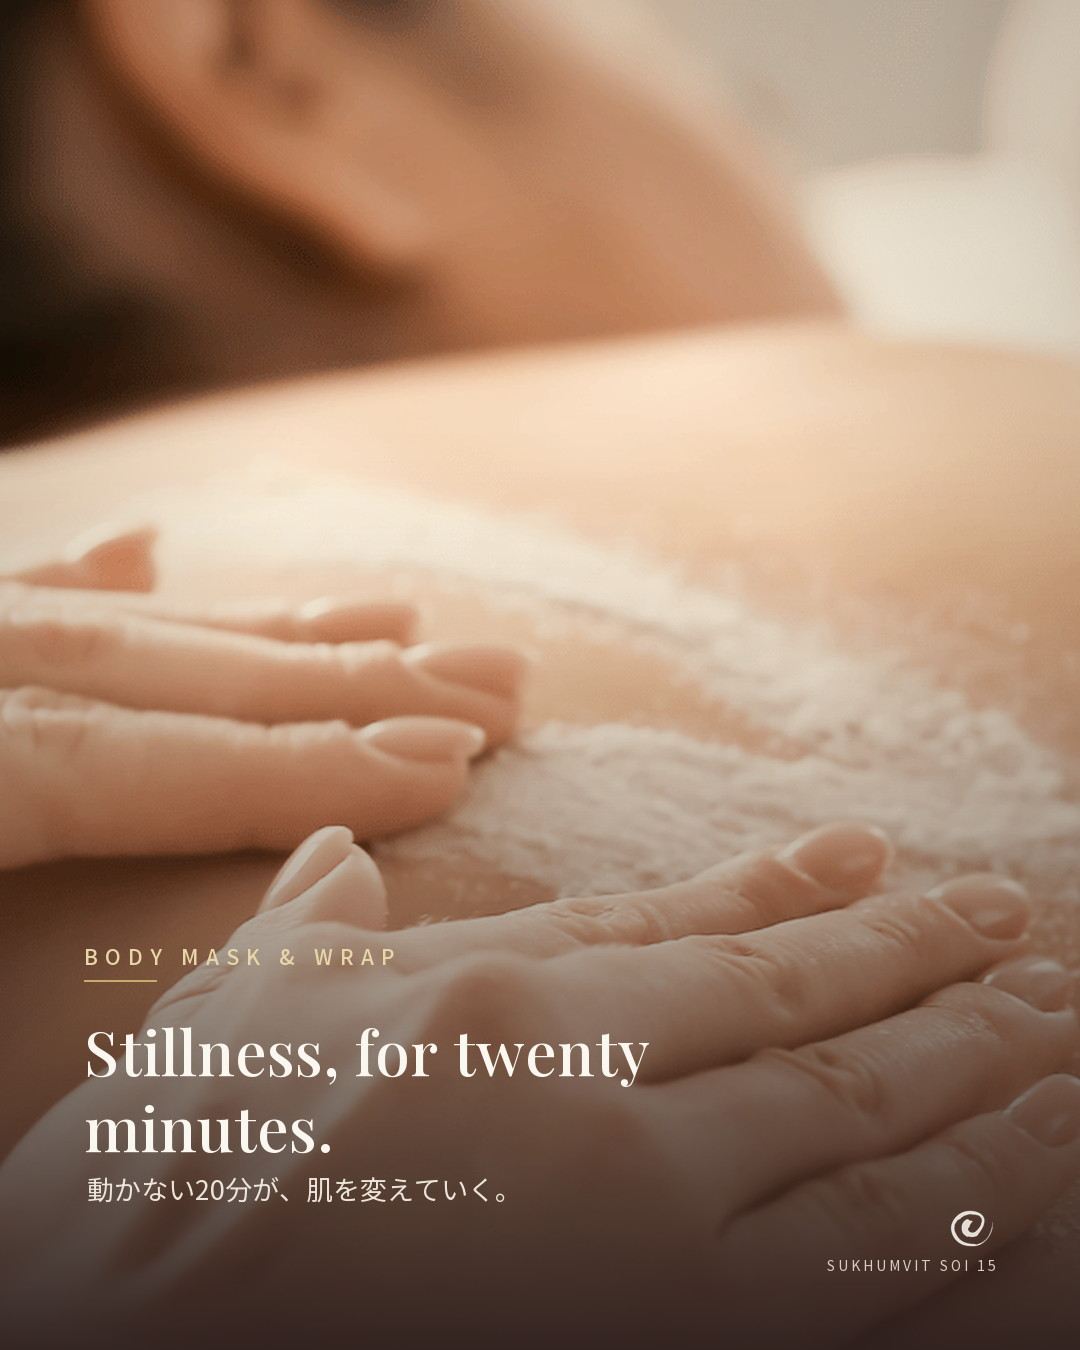
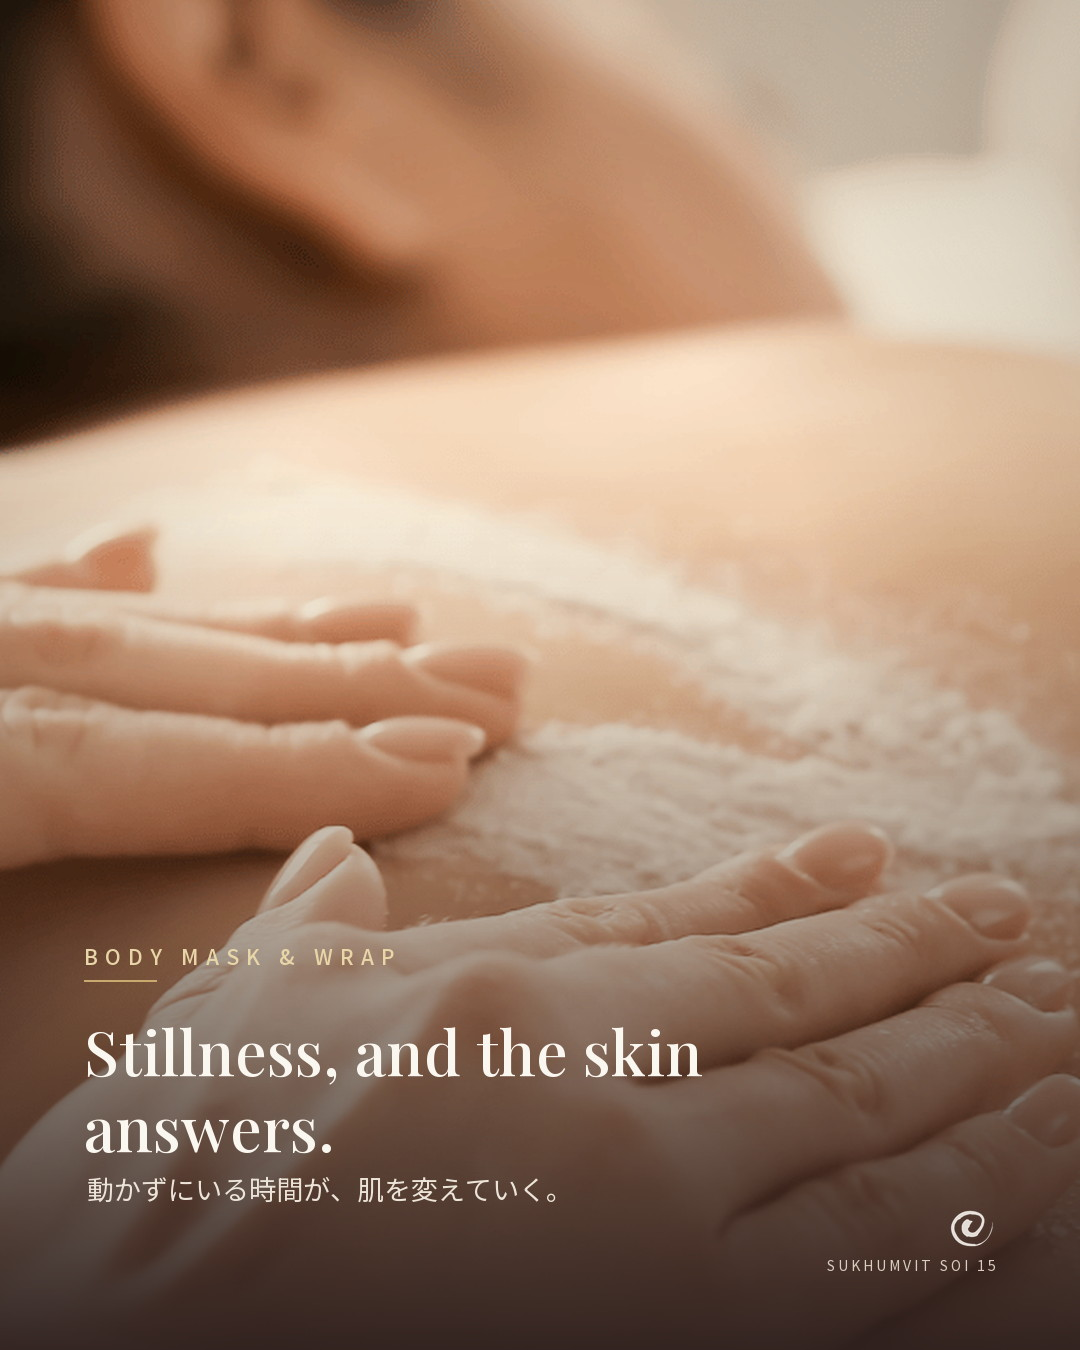
fix(frames): 見出しから所要時間の主張を外し、機械的に弾くようにする
画を選ぶ側（coran-social の selectFrame）はメニューの分数を見ない。見出しに
分数が焼かれていると、60分のメニューに「ninety minutes」の画が当たって
事実と違う投稿になる。実在した2件を直した:

  body-mask       "Stillness, for twenty minutes." / 「動かない20分が、…」
  office-syndrome "Desk all day, undone in ninety minutes."

brandimage.py の CATEGORY は元々「事実の主張は書かない」と自分で書いてあり、
この2件はその決まりから漏れていた。再発しないよう build_social_frames.py に
見出し検査（所要時間・価格・割引／en と ja の両方）を入れ、違反があれば
在庫を作らずに exit 1 する。award の受賞名だけ例外。

実測: 違反ありで exit=1・違反なしで exit=0、目録110件の見出しに違反0。
作り直した画は該当2枚だけ（生成は再現する）。

Changed region(s): [[0.0917, 0.8089, 0.4889, 0.9022], [0.3361, 0.7467, 0.6417, 0.8089]]

diff --git a/tools/build_social_frames.py b/tools/build_social_frames.py
@@ -24,6 +24,7 @@
 import argparse
 import json
 import os
+import re
 import sys
 
 ROOT = os.path.dirname(os.path.dirname(os.path.abspath(__file__)))
@@ -70,6 +71,33 @@ CATEGORY_MAP = {
 }
 SKIP_DIRS = {"generated", "social"}
 
+# 見出しに焼いてはいけない主張。
+#   ・所要時間: 画を選ぶ側（coran-social の selectFrame）はメニューの分数を見ないので、
+#     60分のメニューに「ninety minutes」の画が当たると事実と違う投稿になる。
+#   ・価格/割引: 本文と同じく画にも焼かない（価格の正は予約バックエンドとサイト）。
+#   例外は award カテゴリの受賞名（実際の受賞・受賞写真にしか使われない）。
+FORBIDDEN_HEADLINE = [
+    (re.compile(r"\b(twenty|thirty|forty|fifty|sixty|seventy|eighty|ninety|hundred)\s+minutes?\b", re.I), "所要時間"),
+    (re.compile(r"\b\d+\s*(minutes?|mins?|hours?|hrs?)\b", re.I), "所要時間"),
+    (re.compile(r"\d+\s*(分|時間)"), "所要時間"),
+    (re.compile(r"(฿|THB|バーツ|baht|泰铢|泰銖|바트)", re.I), "価格"),
+    (re.compile(r"(\d+\s*%|OFF\b|割引|discount|sale)", re.I), "割引"),
+]
+HEADLINE_GUARD_EXEMPT = {"award"}
+
+
+def check_headlines(cat, en, ja):
+    """見出しに禁止事項が入っていないか調べ、理由のリストを返す。"""
+    if cat in HEADLINE_GUARD_EXEMPT:
+        return []
+    hits = []
+    for text in (en, ja):
+        for pat, why in FORBIDDEN_HEADLINE:
+            m = pat.search(text or "")
+            if m:
+                hits.append(f'{why}（"{m.group(0)}" in "{text}"）')
+    return hits
+
 
 def frame_id(rel_file):
     """images/manifest.json の "<カテゴリ>/<ファイル名>" から安定した id を作る。"""
@@ -84,6 +112,7 @@ def main():
     args = ap.parse_args()
 
     photos = json.load(open(config.MANIFEST_PATH, encoding="utf-8"))
+    bad_headlines = []
     # 既存の目録があれば、作り直さない画の layout はそこから引く
     # （素材が小さいと A→C に落ちるので、既定値を書くと実物とズレた目録になる）。
     prev_layout = {}
@@ -110,6 +139,8 @@ def main():
         out_path = os.path.join(OUT_DIR, out_rel)
 
         eyebrow, layout_default, en, ja = brandimage.meta_for(photo)
+        for why in check_headlines(cat, en, ja):
+            bad_headlines.append((rel, why))
 
         if os.path.exists(out_path) and not args.force and prev_layout.get(fid):
             layout = prev_layout[fid]
@@ -158,6 +189,12 @@ def main():
     print(f"レイアウト内訳: {by_layout}")
     if skipped:
         print(f"対象外 {len(skipped)}件: " + ", ".join(f"{r}({w})" for r, w in skipped[:5]))
+    if bad_headlines:
+        print(f"\n見出しに書いてはいけない主張が {len(bad_headlines)} 件:")
+        for r, w in bad_headlines:
+            print(f"  {r}: {w}")
+        print("src/brandimage.py の CATEGORY を直してから作り直してください。")
+        return 1
     if failed:
         print(f"失敗 {len(failed)}件:")
         for r, w in failed:

diff --git a/src/brandimage.py b/src/brandimage.py
@@ -18,7 +18,11 @@ import config
 # カテゴリ → (小見出し, 既定レイアウト, [(英語の一行, 和文の一行), ...])
 #   一行は Claude が使えないときのフォールバック。APIが続けて失敗しても同じ文が並ばないよう
 #   カテゴリごとに複数持ち、素材のファイル名から決まる（同じ写真なら毎回同じ・写真が違えば違う）。
-#   事実の主張（価格・所要時間・受賞名・人数）はここに書かない。
+#   ★事実の主張（価格・所要時間・人数）はここに書かない。
+#   所要時間を書くと、画を選ぶ側（coran-social の selectFrame）はメニューの分数を見ていないので、
+#   60分のメニューに「ninety minutes」の画が当たって事実と違う投稿になる（2026-09-23 に実在した）。
+#   tools/build_social_frames.py の見出し検査がこれを機械的に弾く。
+#   例外は award カテゴリの受賞名だけ（実際の受賞で、受賞写真にしか使われない）。
 CATEGORY = {
     "aroma": ("Aromatherapy Massage", "A", [
         ("The city goes quiet under warm oil.", "温めたオイルが、都会の音を遠ざけていく。"),
@@ -31,7 +35,7 @@ CATEGORY = {
     ]),
     "body-mask": ("Body Mask & Wrap", "A", [
         ("Wrapped, warmed, and let go.", "包まれて、温まって、ほどけていく。"),
-        ("Stillness, for twenty minutes.", "動かない20分が、肌を変えていく。"),
+        ("Stillness, and the skin answers.", "動かずにいる時間が、肌を変えていく。"),
     ]),
     "body-scrub": ("Body Scrub", "A", [
         ("Skin remembers kindness.", "肌は、やさしさを覚えている。"),
@@ -69,7 +73,7 @@ CATEGORY = {
     ]),
     "office-syndrome": ("Office Syndrome Care", "A", [
         ("For shoulders that hold too much.", "抱えこんだ肩に、ほどく時間を。"),
-        ("Desk all day, undone in ninety minutes.", "デスクでこわばった体を、ほどいていく。"),
+        ("Desk all day, undone here.", "デスクでこわばった体を、ほどいていく。"),
     ]),
     "product": ("Our Products", "A", [
         ("Made for the skin we touch.", "施術で使うものを、そのままお持ち帰りに。"),
